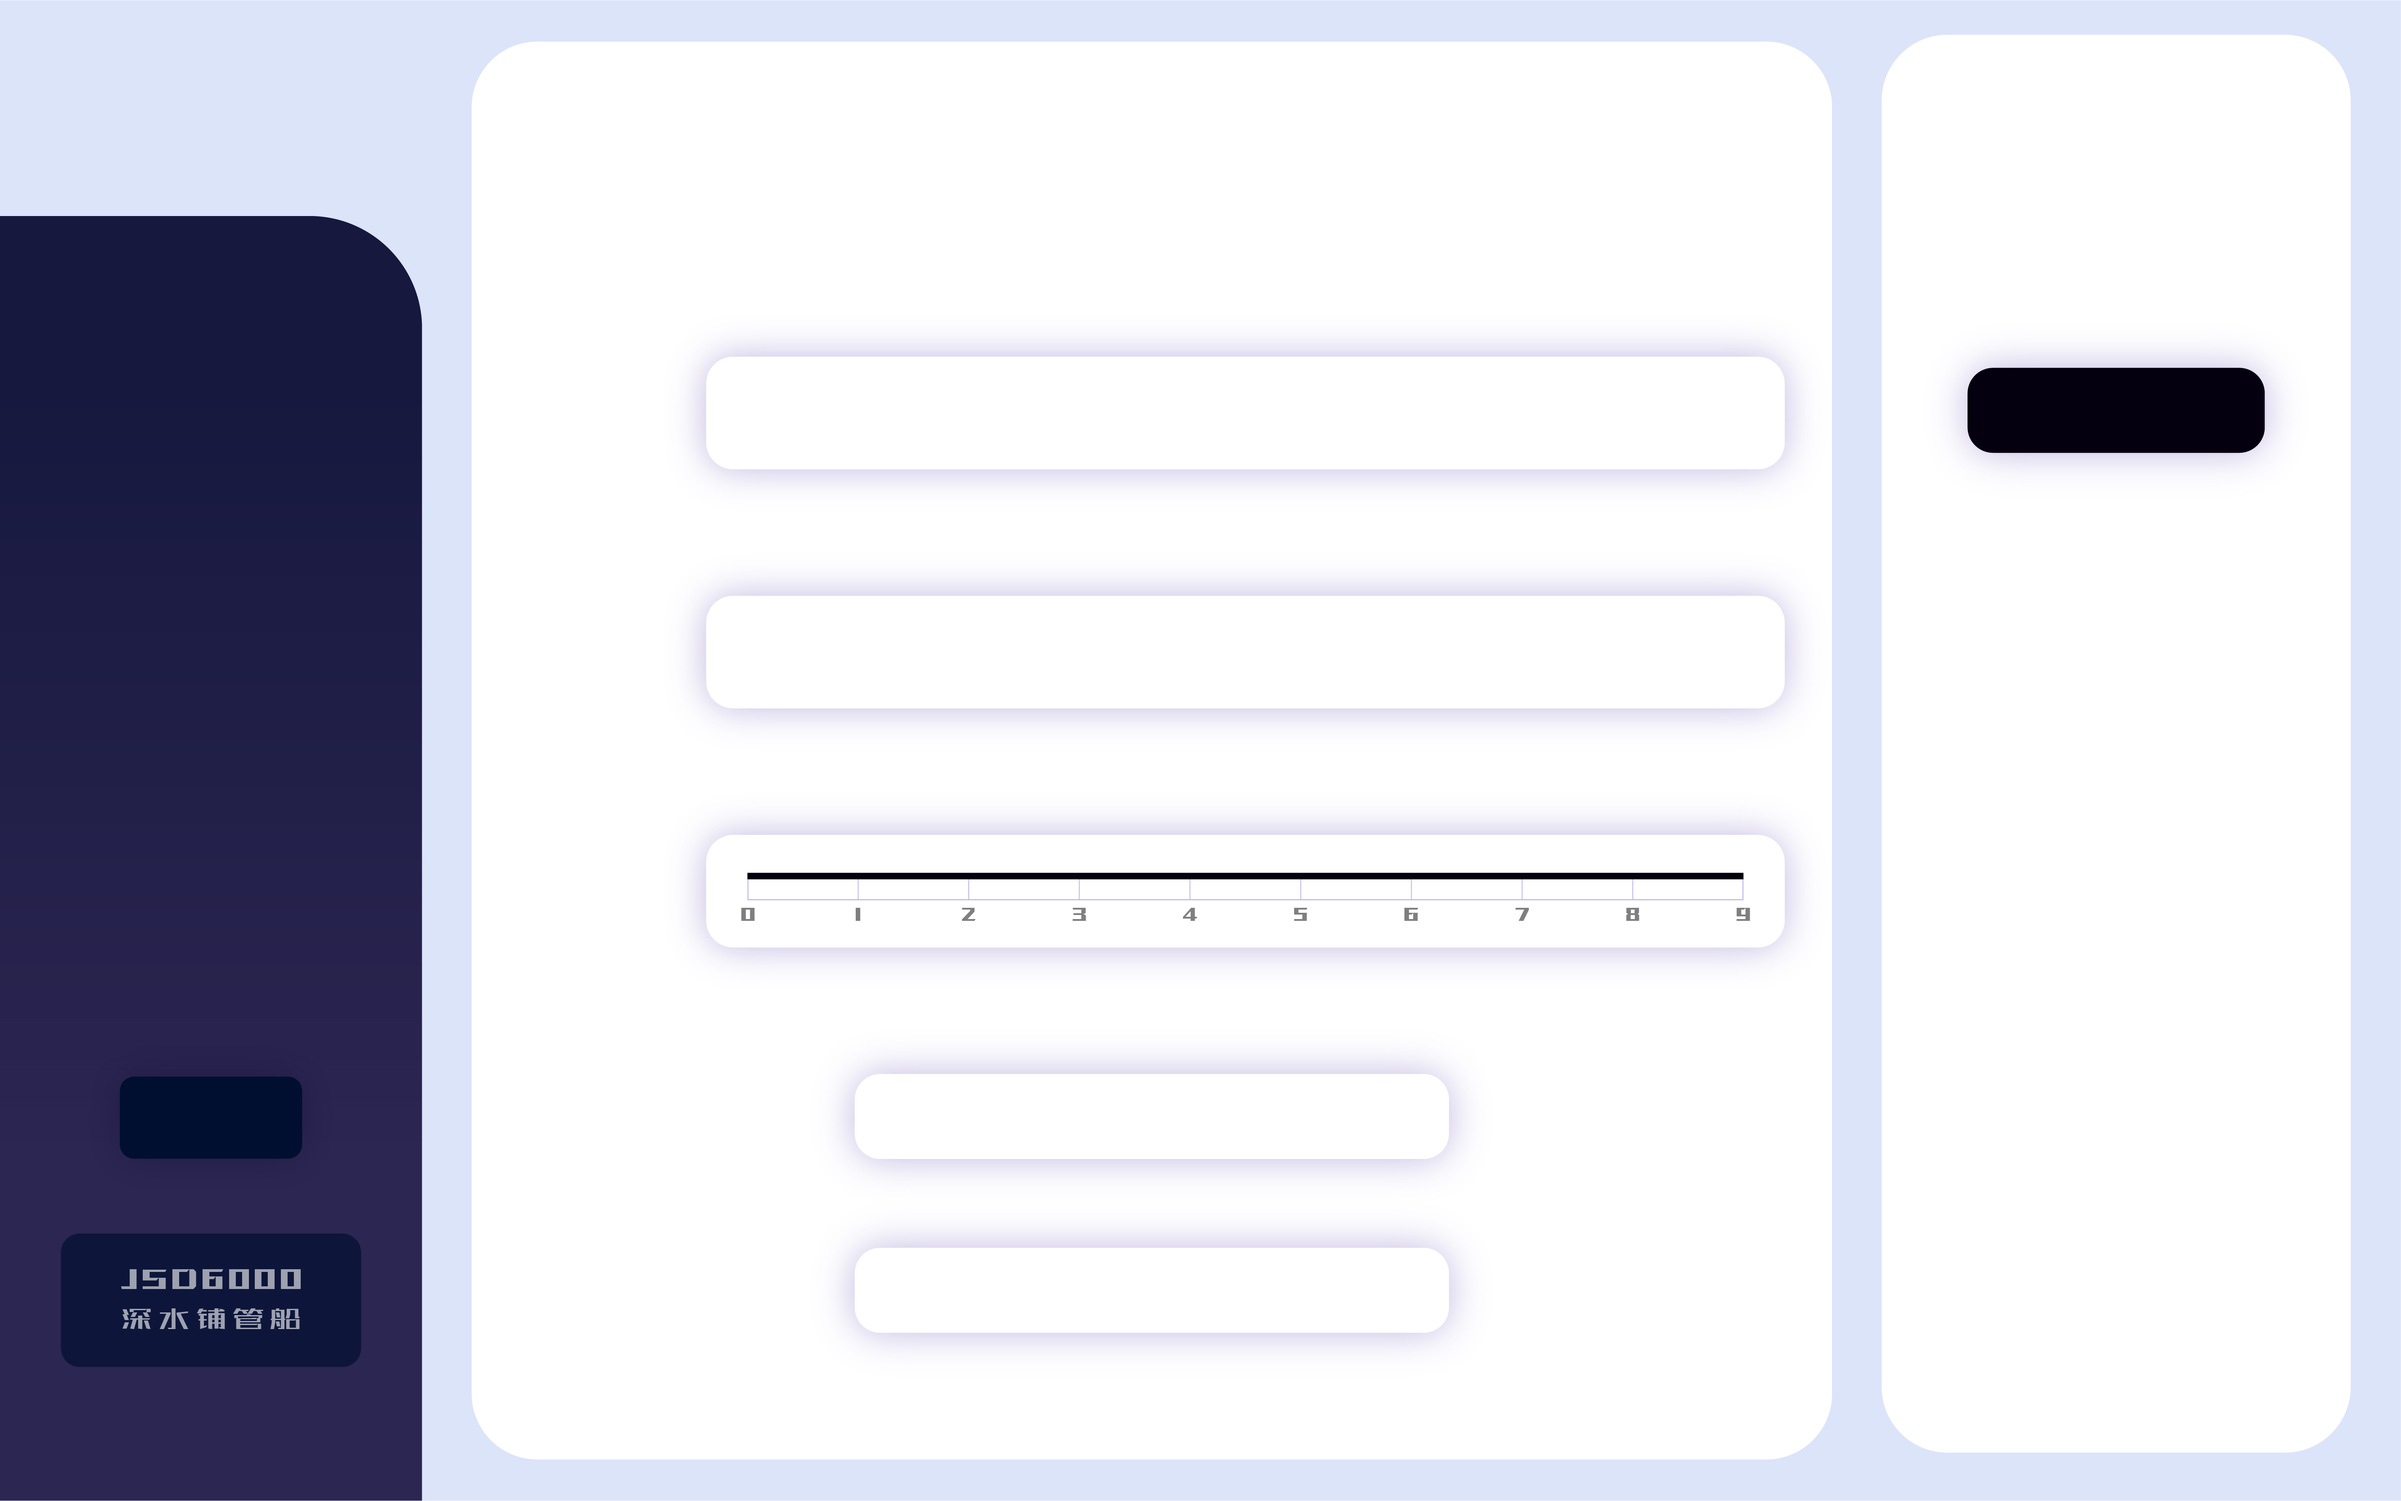
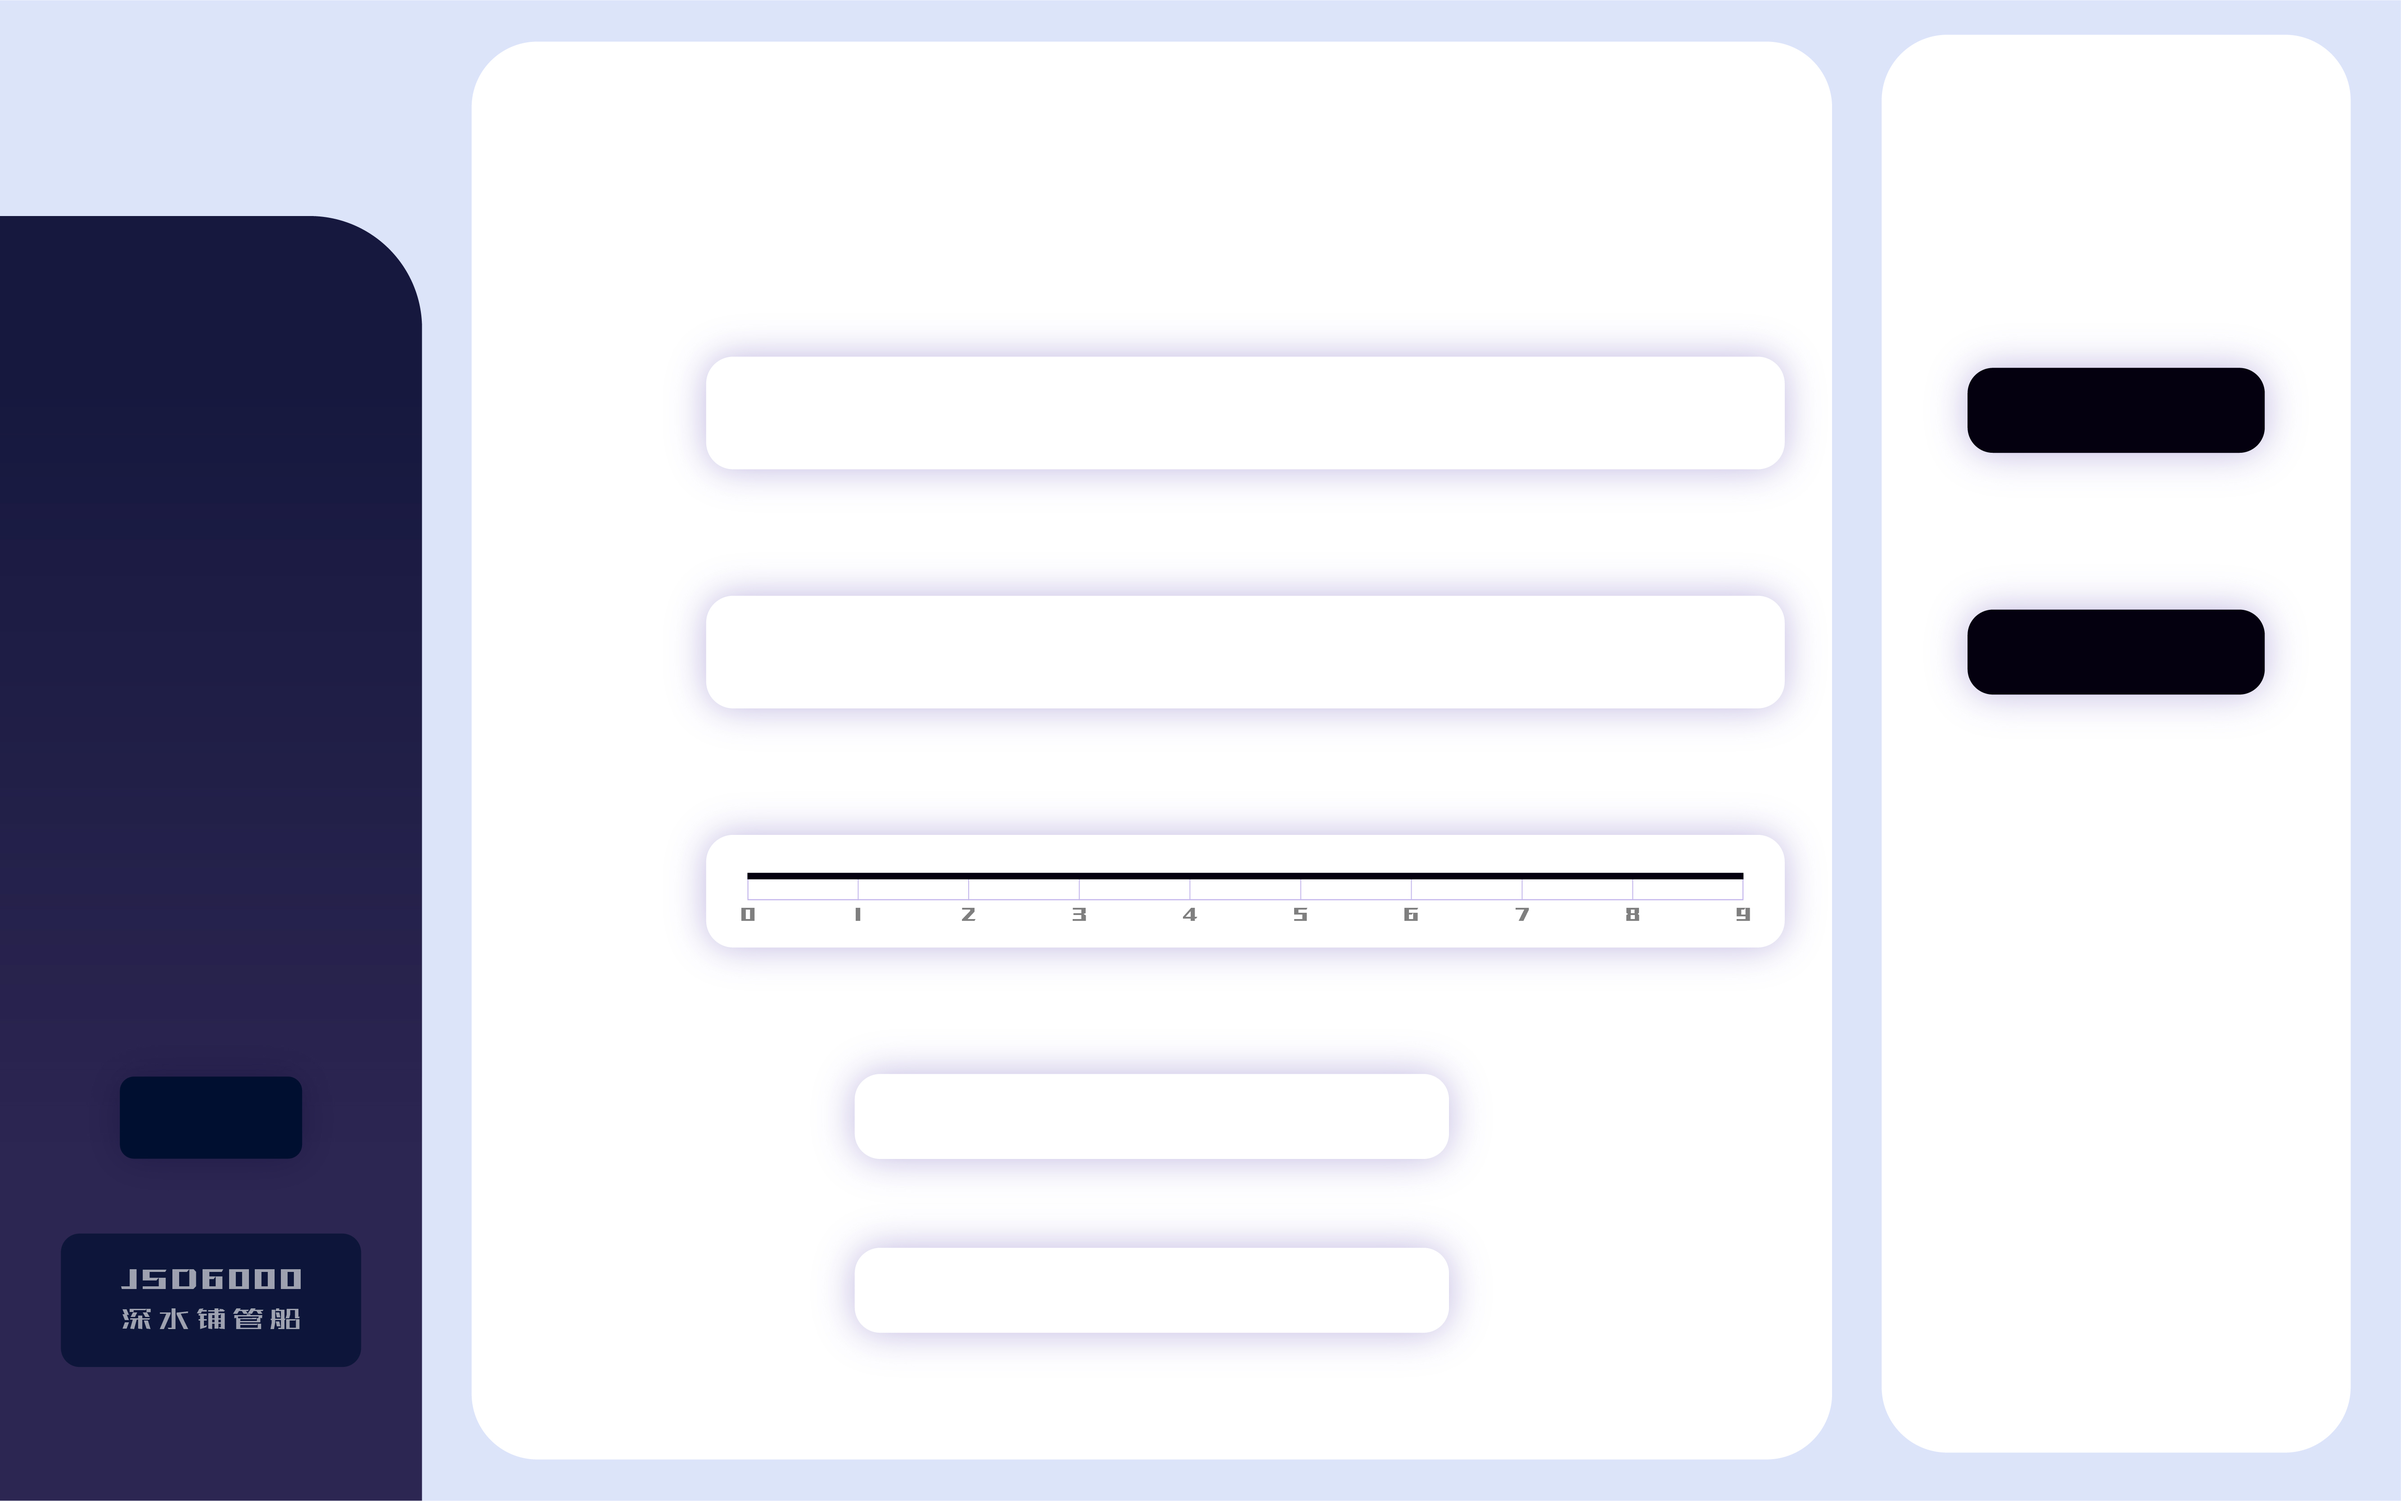
1、复原了航行页的display按钮的功能和UI 2、修改了航行页的背景

Changed region(s): [[0.8091, 0.3742, 0.9648, 0.4678]]

diff --git a/Assets/Projects/Scripts/Frame/UI/Panel/ClientPanel/SailingPanel.cs b/Assets/Projects/Scripts/Frame/UI/Panel/ClientPanel/SailingPanel.cs
@@ -13,7 +13,7 @@ public class SailingPanel : BasePanel
     public Button[] WeatherButtons;
     public Button[] DayNightButtons;
     public Button BackButton;
-    public Button SwitchButton;
+    public Button SwitchButton, DisplayButton;
     public Button[] ViewButtons, ViewButton2;
 
     public TrainButton[] TrainButtons;
@@ -44,7 +44,7 @@ public class SailingPanel : BasePanel
         DayNightButtons = FindTool.FindChildNode(transform, "DayNightButtonGroup").GetComponentsInChildren<Button>();
         BackButton = FindTool.FindChildComponent<Button>(transform, "BackButtonGroup");
         SwitchButton = FindTool.FindChildComponent<Button>(transform, "SwitchButton");
-        //DisplayButton = FindTool.FindChildComponent<Button>(transform, "DisPlayButton");
+        DisplayButton = FindTool.FindChildComponent<Button>(transform, "DisPlayButton");
         ViewButtons = FindTool.FindChildNode(transform, "ViewButtonGroup").GetComponentsInChildren<Button>();
         ViewButton2 = FindTool.FindChildNode(transform, "ViewButtonGroup (1)").GetComponentsInChildren<Button>();
 
@@ -144,21 +144,22 @@ public class SailingPanel : BasePanel
             }
         });
 
-        //DisplayButton.onClick.AddListener(() => {
-        //    Text text = DisplayButton.gameObject.transform.GetChild(0).GetComponent<Text>();
-        //    PuGuanCameraData data = new PuGuanCameraData();
-        //    if (text.color == Color.white)
-        //    {
-        //        text.color = blue;
-        //        data.state = PuGuanCameraState.Open.ToString();
-        //    }
-        //    else
-        //    {
-        //        text.color = Color.white;
-        //        data.state = PuGuanCameraState.Hide.ToString();
-        //    }
-        //    UdpSclient.Instance.SendDataToSever(ParmaterCodes.PuGuanCameraData, data);
-        //});
+        DisplayButton.onClick.AddListener(() =>
+        {
+            Text text = DisplayButton.gameObject.transform.GetChild(0).GetComponent<Text>();
+            PuGuanCameraData data = new PuGuanCameraData();
+            if (text.color == Color.white)
+            {
+                text.color = blue;
+                data.state = PuGuanCameraState.Open.ToString();
+            }
+            else
+            {
+                text.color = Color.white;
+                data.state = PuGuanCameraState.Hide.ToString();
+            }
+            UdpSclient.Instance.SendDataToSever(ParmaterCodes.PuGuanCameraData, data);
+        });
 
         BackButton.onClick.AddListener(() =>
         {

diff --git a/Assets/UdpScripts/UdpSclient.cs b/Assets/UdpScripts/UdpSclient.cs
@@ -100,9 +100,9 @@ public class UdpSclient : MonoBehaviour
             case ParmaterCodes.TrainModelData:
                 response.AddParemater((byte)ParmaterCodes.TrainModelData, JsonConvert.SerializeObject(obj));
                 break;
-            //case ParmaterCodes.PuGuanCameraData:
-            //    response.AddParemater((byte)ParmaterCodes.PuGuanCameraData, JsonConvert.SerializeObject(obj));
-            //    break;
+            case ParmaterCodes.PuGuanCameraData:
+                response.AddParemater((byte)ParmaterCodes.PuGuanCameraData, JsonConvert.SerializeObject(obj));
+                break;
             case ParmaterCodes.AutoDriveData:
                 response.AddParemater((byte)ParmaterCodes.AutoDriveData, JsonConvert.SerializeObject(obj));
                 break;

diff --git a/Assets/Projects/Scripts/DataType/DataType.cs b/Assets/Projects/Scripts/DataType/DataType.cs
@@ -190,16 +190,16 @@ namespace MTFrame
     /// <summary>
     /// 铺管视图状态
     /// </summary>
-    //public enum PuGuanCameraState
-    //{
-    //    Open = 0,
-    //    Hide = 1,
-    //}
+    public enum PuGuanCameraState
+    {
+        Open = 0,
+        Hide = 1,
+    }
 
-    //public class PuGuanCameraData
-    //{
-    //    public string state;
-    //}
+    public class PuGuanCameraData
+    {
+        public string state;
+    }
     public enum AutoDriveEnum
     {
         Start,

diff --git a/Assets/UdpScripts/NetworkLocal/Code/OperateCodes.cs b/Assets/UdpScripts/NetworkLocal/Code/OperateCodes.cs
@@ -81,6 +81,6 @@ public enum ParmaterCodes : byte
     /// <summary>
     /// 模拟航行页10
     /// </summary>
-    //PuGuanCameraData,
+    PuGuanCameraData,
     AutoDriveData,
 }
